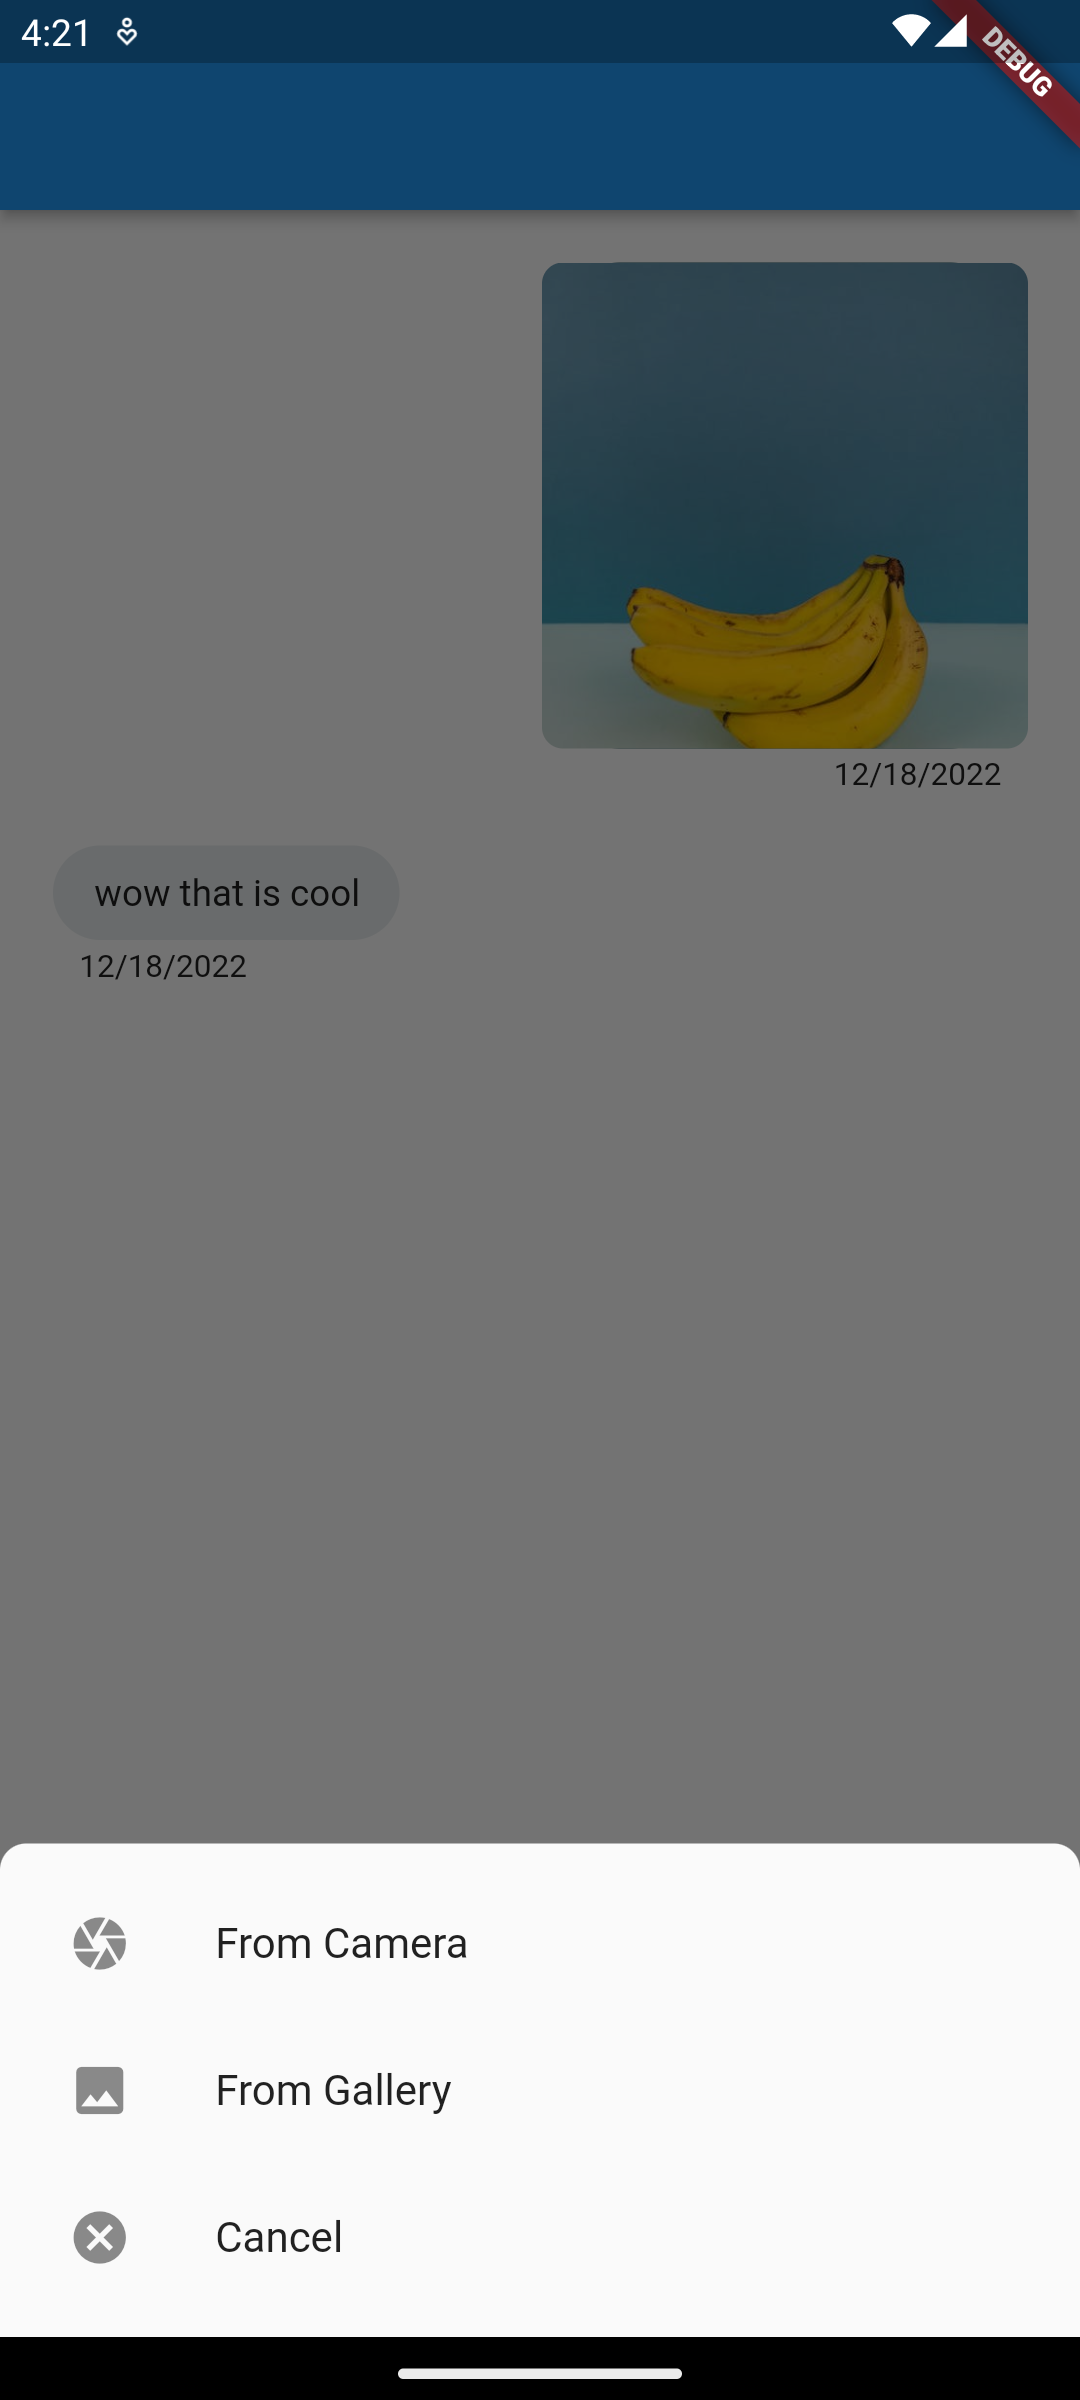
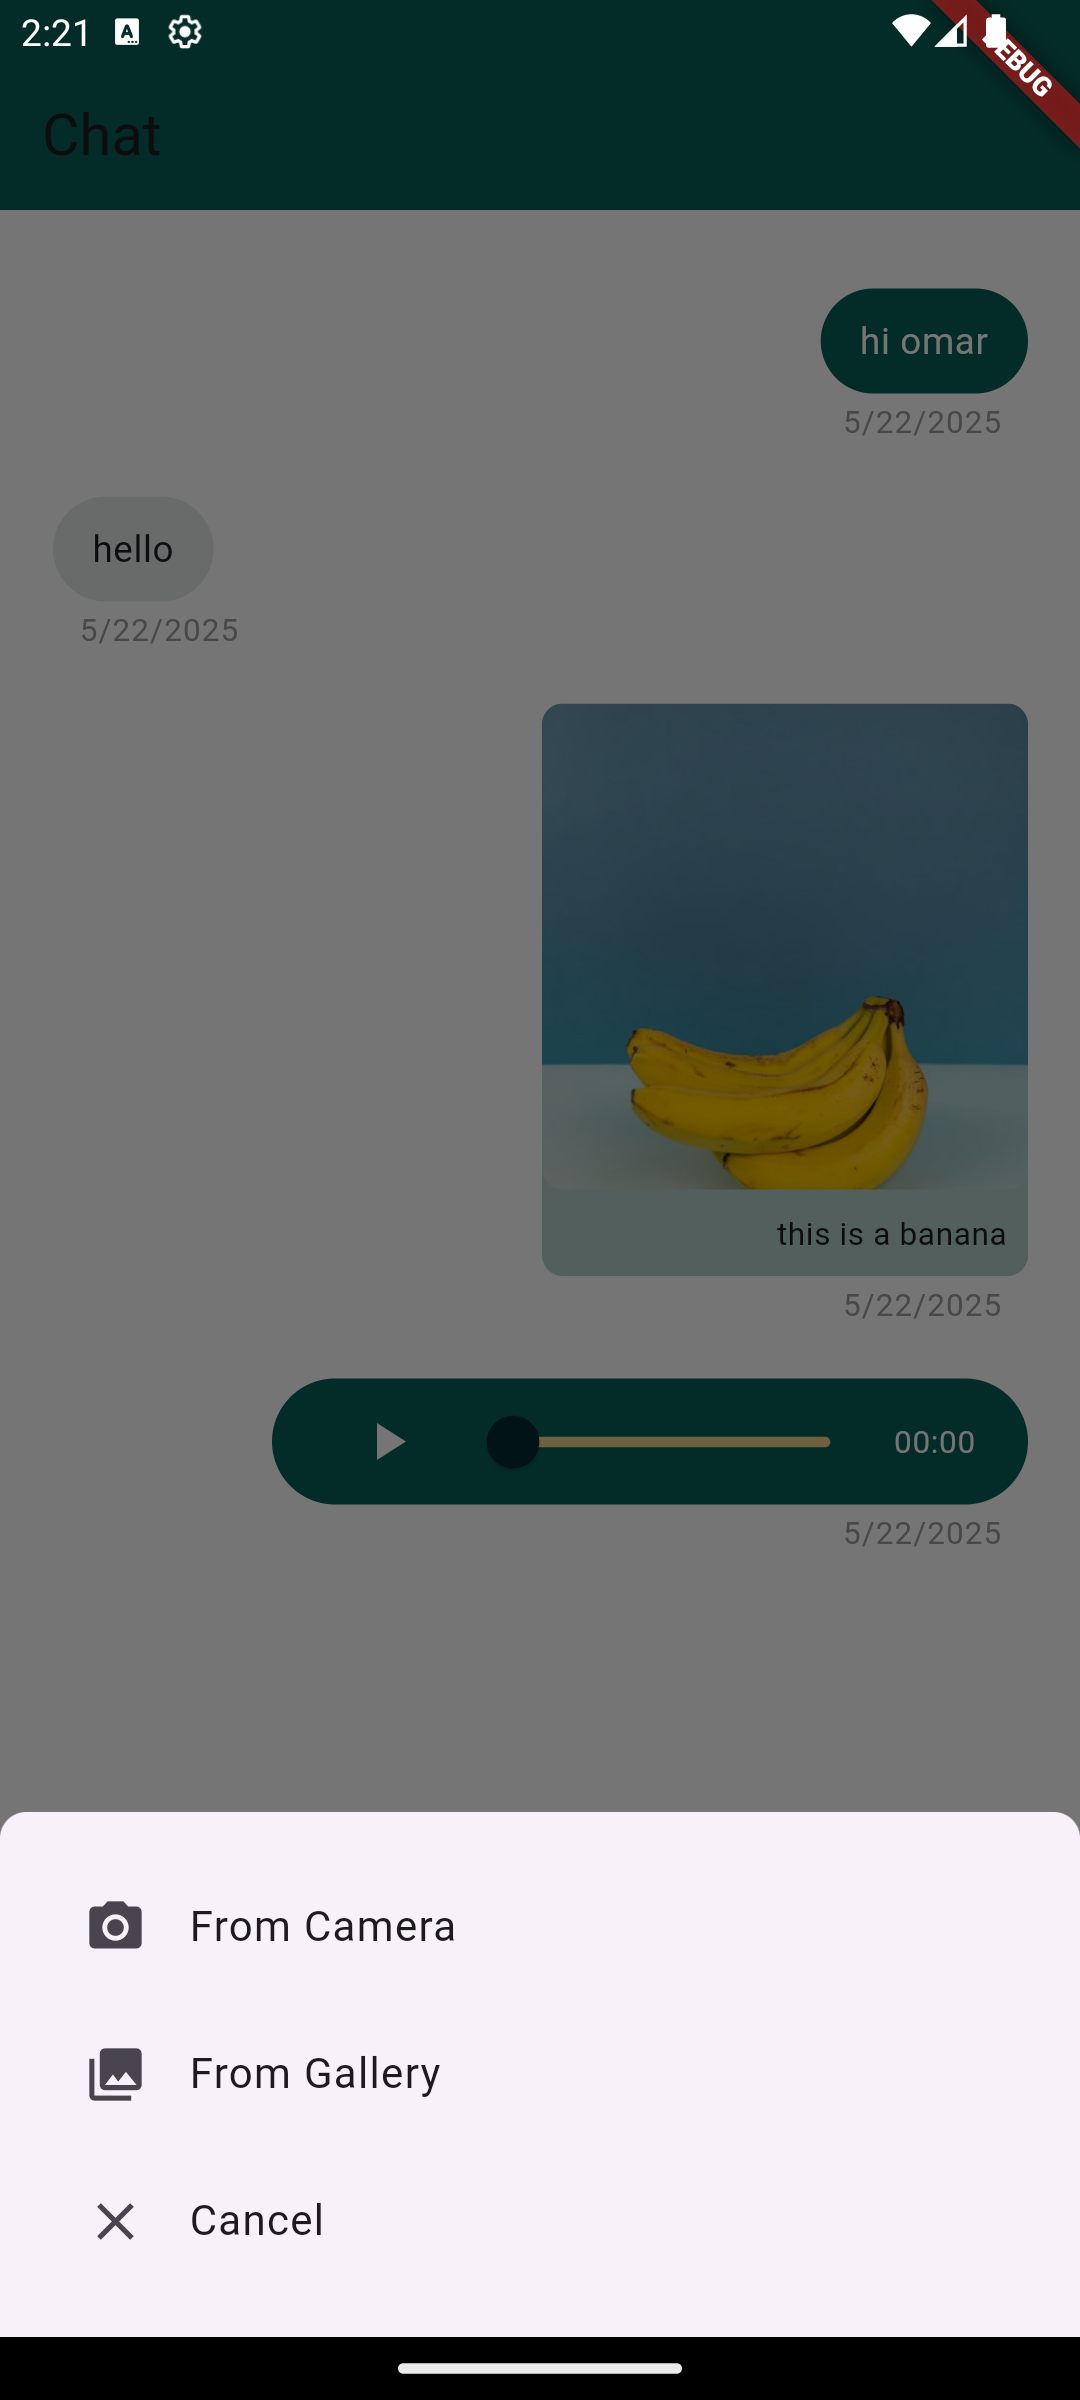
Improves chat input and UI (#23)
Updates the chat input field to include audio recording functionality with a timer.

Also, changes the primary color to align with visual design guidelines.

diff --git a/lib/components/chat_input_field/chat_input_field_provider.dart b/lib/components/chat_input_field/chat_input_field_provider.dart
@@ -1,3 +1,5 @@
+import 'dart:async';
+
 import 'package:flutter/material.dart';
 import 'package:permission_handler/permission_handler.dart';
 import 'package:path_provider/path_provider.dart';
@@ -38,6 +40,8 @@ class ChatInputProvider extends ChangeNotifier {
   final _audioRecorder = AudioRecorder();
   bool _isRecording = false;
   double _dragOffset = 0.0;
+  Duration _recordDuration = Duration.zero;
+  Timer? _recordTimer;
 
   /// Constructs a [ChatInputProvider].
   ///
@@ -65,6 +69,9 @@ class ChatInputProvider extends ChangeNotifier {
   /// True if the text input contains non-whitespace characters.
   bool get hasText => textController.text.trim().isNotEmpty;
 
+  /// Elapsed recording duration.
+  Duration get recordDuration => _recordDuration;
+
   // ─────────────────────────────────────────────────────────────────────────
   // Permission & Recording Helpers
   // ─────────────────────────────────────────────────────────────────────────
@@ -86,10 +93,18 @@ class ChatInputProvider extends ChangeNotifier {
     if (await _audioRecorder.isRecording()) {
       await _audioRecorder.stop();
     }
+
     await _audioRecorder.start(
       const RecordConfig(),
       path: filePath,
     );
+    if (_recordTimer == null) {
+      _recordTimer = Timer.periodic(const Duration(seconds: 1), (_) {
+        _recordDuration += const Duration(seconds: 1);
+        print('omar hello');
+        notifyListeners();
+      });
+    }
   }
 
   /// Stops recording and returns the recorded file path, or `null`.
@@ -117,12 +132,17 @@ class ChatInputProvider extends ChangeNotifier {
     if (_dragOffset <= -cancelThreshold) {
       _resetRecordingState();
     }
+    _recordDuration = Duration.zero;
+
     notifyListeners();
   }
 
   /// Ends recording on long-press release; completes or cancels accordingly.
   Future<void> endRecording() async {
     if (!_isRecording) return;
+    _recordDuration = Duration.zero;
+    _recordTimer?.cancel();
+    _recordTimer = null;
 
     final recordedPath = await _stopAudioRecord();
     final canceled =
@@ -202,11 +222,15 @@ class ChatInputProvider extends ChangeNotifier {
   void _resetRecordingState() {
     _isRecording = false;
     _dragOffset = 0.0;
+    _recordTimer?.cancel();
+    _recordTimer = null;
   }
 
   @override
   void dispose() {
     textController.removeListener(_onTextChanged);
+    _recordTimer?.cancel();
+    _recordTimer = null;
     _audioRecorder.dispose();
     super.dispose();
   }

diff --git a/lib/components/chat_input_field/chat_input_field.dart b/lib/components/chat_input_field/chat_input_field.dart
@@ -51,7 +51,6 @@ class ChatInputField extends StatefulWidget {
   /// used for [ChatBottomSheet]
   final String cameraText;
 
-
   /// Icon for the “From Camera” option.
   /// used for [ChatBottomSheet]
   final Icon? cameraIcon;
@@ -88,7 +87,6 @@ class ChatInputField extends StatefulWidget {
     Key? key,
     required this.onRecordComplete,
     required this.textController,
-
     required this.onTextSubmit,
     required this.onImageSelected,
     this.cameraText = 'From Camera',
@@ -161,6 +159,9 @@ class _ChatInputFieldState extends State<ChatInputField>
       ),
       child: Consumer<ChatInputProvider>(
         builder: (context, provider, _) {
+          final d = provider.recordDuration;
+          final minutes = d.inMinutes.remainder(60).toString().padLeft(2, '0');
+          final seconds = d.inSeconds.remainder(60).toString().padLeft(2, '0');
           return Container(
             padding: widget.chatFieldPadding,
             margin: widget.chatFieldMargin,
@@ -189,13 +190,15 @@ class _ChatInputFieldState extends State<ChatInputField>
                                     style: widget.waveStyle,
                                   ),
                                 ),
-                              Text(
-                                '00:00',
-                                // style: widget.waveStyle.timerTextStyle,
+                              Flexible(
+                                child: Text(
+                                  widget.recordingNoteHintText,
+                                  // style: widget.waveStyle.timerTextStyle,
+                                ),
                               ),
                               SizedBox(width: 2),
                               Text(
-                                widget.recordingNoteHintText,
+                                '${minutes}:${seconds}',
                                 // style: widget.waveStyle.timerTextStyle,
                               ),
                               const SizedBox(width: 12),
@@ -251,7 +254,6 @@ class _ChatInputFieldState extends State<ChatInputField>
                               ),
                             ],
                           ),
-
                   ),
                 ),
                 SizedBox(

diff --git a/example/lib/main.dart b/example/lib/main.dart
@@ -1,5 +1,7 @@
 import 'package:chat_package/chat_package.dart';
 import 'package:chat_package/models/chat_message.dart';
+import 'package:chat_package/models/media/chat_media.dart';
+import 'package:chat_package/models/media/media_type.dart';
 import 'package:flutter/material.dart';
 
 void main() => runApp(const MyApp());
@@ -38,6 +40,19 @@ class _ChatPageState extends State<ChatPage> {
     ChatMessage(
       text: 'hi omar',
       isSender: true,
+    ),
+    ChatMessage(
+      text: 'hello',
+      isSender: false,
+    ),
+    ChatMessage(
+      isSender: true,
+      text: 'this is a banana',
+      chatMedia: const ChatMedia(
+        url:
+            'https://images.pexels.com/photos/7194915/pexels-photo-7194915.jpeg?auto=compress&cs=tinysrgb&h=750&w=1260',
+        mediaType: MediaType.imageMediaType(),
+      ),
     ),
   ];
 

diff --git a/lib/utils/constants.dart b/lib/utils/constants.dart
@@ -2,7 +2,7 @@ import 'package:flutter/material.dart';
 import 'package:intl/intl.dart';
 
 /// contains the default colors for the package ui
-const kPrimaryColor = Color(0xFF255965);
+const kPrimaryColor = Color(0xFF075E54);
 const kSecondaryColor = Color(0xFF032a33);
 const kLightColor = Color(0xFFf1d18a);
 const kErrorColor = Color(0xFFF03738);

diff --git a/README.md b/README.md
@@ -13,7 +13,7 @@ Created by Omar Mouki ([GitHub](https://github.com/MOUKZ)) [![LinkedIn](https
 
 ## 📸 Screenshots
 
-<img src="https://raw.githubusercontent.com/MOUKZ/chat_package/main/screenShots/home_screen.png" height="250"> <img src="https://raw.githubusercontent.com/MOUKZ/chat_package/main/screenShots/recording.png" height="250"> <img src="https://raw.githubusercontent.com/MOUKZ/chat_package/main/screenShots/bottom_sheet.png" height="250"> <img src="https://raw.githubusercontent.com/MOUKZ/chat_package/main/screenShots/permission.png" height="250">
+<img src="https://raw.githubusercontent.com/MOUKZ/chat_package/main/screenShots/home_screen.png" height="250"> <img src="https://raw.githubusercontent.com/MOUKZ/chat_package/main/screenShots/recording.png" height="250"> <img src="https://raw.githubusercontent.com/MOUKZ/chat_package/main/screenShots/bottom_sheet.png" height="250">
 
 ---
 
